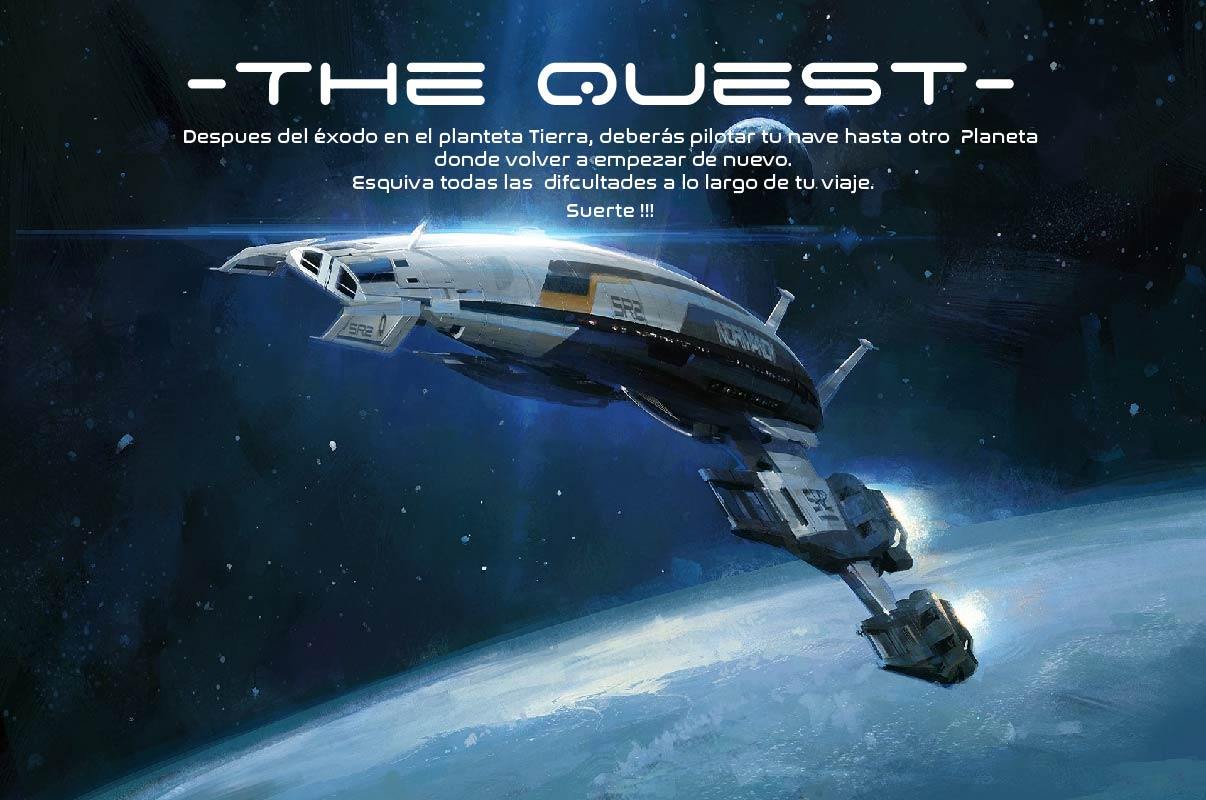
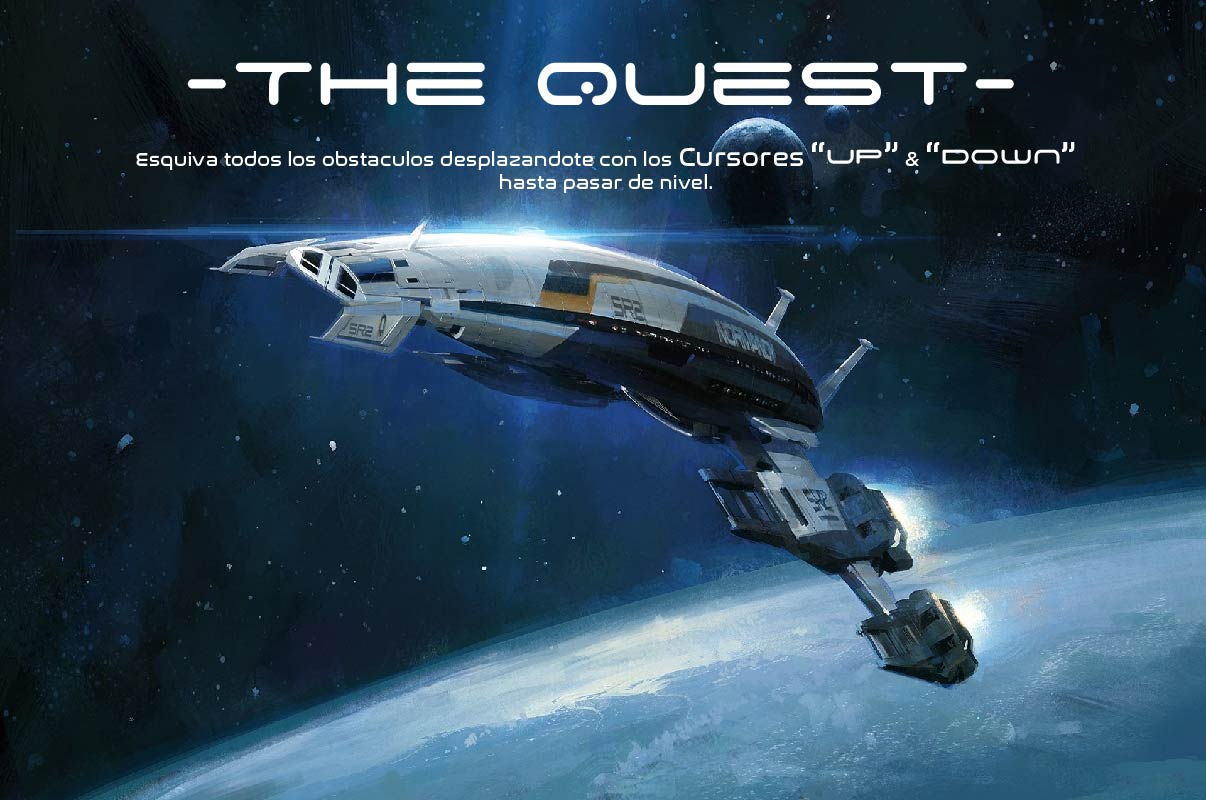
Hasta nave animada

Changed region(s): [[0.092, 0.1562, 0.8897, 0.2812]]

diff --git a/the_quest/escenas.py b/the_quest/escenas.py
@@ -1,6 +1,7 @@
 import pygame as pg
 from pygame.constants import KEYDOWN
-from . import FPS, ANCHO
+from . import FPS, ANCHO, ALTO
+from .entidades import Nave
 
 class Escena():
     def __init__(self, pantalla): # le paso la pantalla donde se va acrear la escena
@@ -20,7 +21,7 @@ class Portada(Escena):
         self.anchoTexto = self.callToAction.get_width()
 
     def bucle_principal(self):
-        print("soy partida")
+        print("soy portada")
         game_over = False
         while not game_over:
             for evento in pg.event.get(): # Recupero eventos
@@ -35,7 +36,7 @@ class Portada(Escena):
             #self.pantalla.fill((19, 41, 81))
             self.pantalla.blit(self.background, (0,0))
             self.pantalla.blit(self.logo, (230, 250))
-            self.pantalla.blit(self.callToAction, ((ANCHO-self.anchoTexto)//2, 550)) # Obtener tamaño texto y centrado
+            self.pantalla.blit(self.callToAction, ((ANCHO-self.anchoTexto)//2, 650)) # Obtener tamaño texto y centrado
 
             pg.display.flip()
 
@@ -62,14 +63,46 @@ class Instrucciones(Escena):
                         game_over = True
 
             self.pantalla.blit(self.background, (0, 0))
-            self.pantalla.blit(self.texto, ((ANCHO-self.anchoTexto)//2 , 650))
+            self.pantalla.blit(self.texto, ((ANCHO-self.anchoTexto)//2 , 550))
 
             pg.display.flip()
 
 
 
 class Partida(Escena):
-    pass
+    def __init__(self, pantalla):
+        super().__init__(pantalla)
+        self.background = pg.image.load("resources/images/bg_partida2.jpg").convert()
+        self.x = 0 # Para animar background
+        self.player = Nave(midleft=(ANCHO-1200, ALTO//2)) # posicionamiento viene del **kwargs (init clase Nave)
+        # self.vidas = 3
+        
+
+    def bucle_principal(self):
+        print("soy partida")
+        game_over = False
+        while not game_over:
+            dt = self.reloj.tick(FPS) # Reloj General
+            for evento in pg.event.get():
+                if evento.type == pg.QUIT:
+                    exit()
+
+
+            self.player.update(dt)
+            #Animacion fondo
+            x_relativa = self.x % self.background.get_rect().width
+            self.pantalla.blit(self.background, (x_relativa - self.background.get_rect().width , 0))
+            if x_relativa < ANCHO:
+                self.pantalla.blit(self.background, (x_relativa, 0))
+            self.x -= 1 # Velocidad movimiento background
+            self.pantalla.blit(self.player.image, self.player.rect) # Haye que pasar la image (surface) y el rect (rectagulo) del Sprite de Nave
+            
+
+
+            pg.display.flip()
+
+
+
 
 class Records(Escena):
     pass

diff --git a/the_quest/entidades.py b/the_quest/entidades.py
@@ -1,0 +1,40 @@
+import pygame as pg
+from pygame.sprite import Sprite
+from . import ALTO, ANCHO, FPS
+import random
+
+class Nave(Sprite):
+    disfraces = ["nave1.png", "nave2.png", "nave3.png", "nave4.png", "nave5.png"]
+    def __init__(self, **kwargs): # **kwargs = Al instanciar, hay que meterle los pares clave/valor que me interesen = posicionamiento (x,y)
+        self.imagenes = [] # Imagen animada
+        for fichero in self.disfraces:
+            self.imagenes.append(pg.image.load(f"resources/images/{fichero}"))
+        self.imagen_activa = 0
+
+        self.tiempo_transcurrido = 0
+        self.tiempo_cambio_animacion = 1000 // FPS * 8
+
+        self.image = self.imagenes[self.imagen_activa]
+        self.rect = self.image.get_rect(**kwargs) # **kwargs permite clave-valor(posicion rect, valor) para posicionar el rect al instanciar Nave
+
+    def update(self, dt):
+        if pg.key.get_pressed()[pg.K_UP]:
+            self.rect.y -= 5
+        if pg.key.get_pressed()[pg.K_DOWN]:
+            self.rect.y += 5
+
+        if self.rect.bottom >= ALTO: 
+            self.rect.bottom = ALTO
+        if self.rect.top <= 0: 
+            self.rect.top = 0 
+
+        self.tiempo_transcurrido += dt # Velocidad animacion
+        if self.tiempo_transcurrido >= self.tiempo_cambio_animacion:
+            self.imagen_activa += 1 #Animacion disfraz
+            if self.imagen_activa >= len(self.imagenes):
+                self.imagen_activa = 0
+            self.tiempo_transcurrido = 0
+
+            self.image = self.imagenes[self.imagen_activa]
+
+

diff --git a/the_quest/game.py b/the_quest/game.py
@@ -1,13 +1,13 @@
 import pygame as pg
 from the_quest import ALTO, ANCHO
-from the_quest.escenas import Instrucciones, Portada
+from the_quest.escenas import Instrucciones, Partida, Portada
 
 pg.init()
 
 class Game():
     def __init__(self):
         pantalla = pg.display.set_mode((ANCHO, ALTO)) # esta pantalla hay que pasarsela a cada una de las escenas
-        self.escenas = [Portada(pantalla), Instrucciones(pantalla)]
+        self.escenas = [Portada(pantalla), Instrucciones(pantalla), Partida(pantalla)]
 
     def launch(self):
         i = 0

diff --git a/the_quest/__init__.py b/the_quest/__init__.py
@@ -1,3 +1,4 @@
 ANCHO = 1200
 ALTO = 800
 FPS = 60
+
